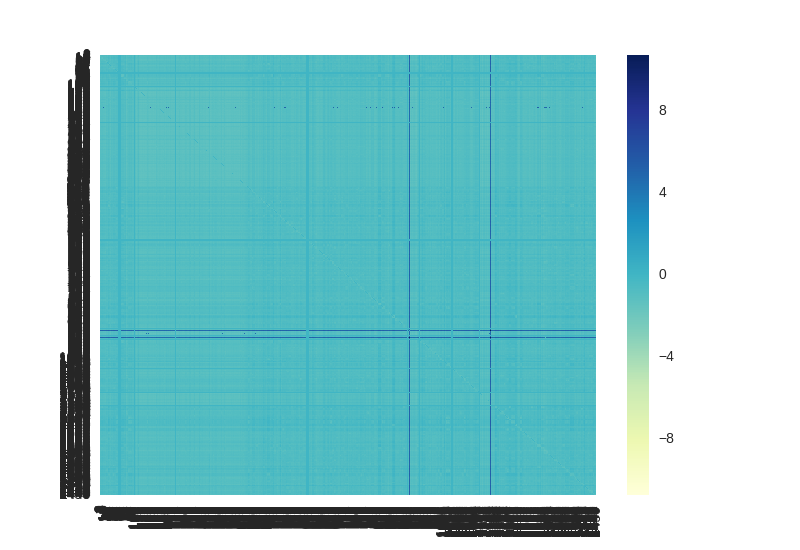
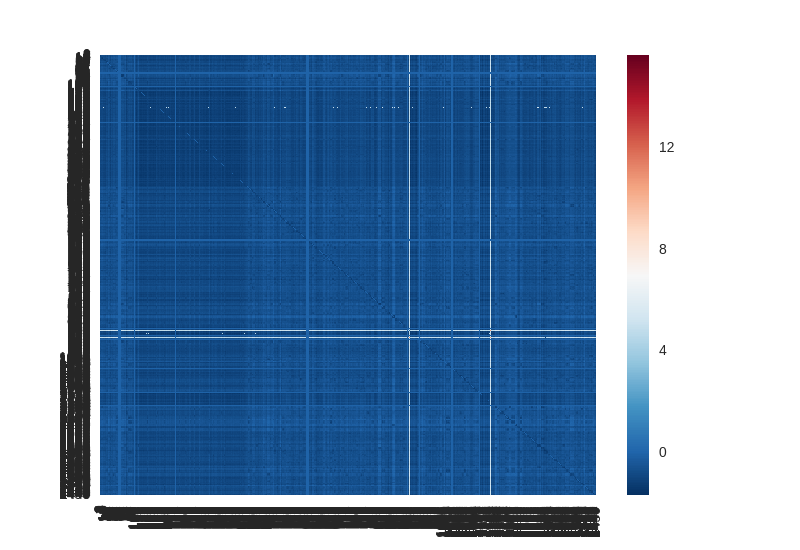
test.png change colormap2

diff --git a/plot_heat2.py b/plot_heat2.py
@@ -1,0 +1,6 @@
+import seaborn as sns
+import numpy as np
+import matplotlib.pyplot as plt
+r500 = np.loadtxt('heat2_19.csv')
+sns.heatmap(r500, center=7)
+plt.savefig('test.png')
